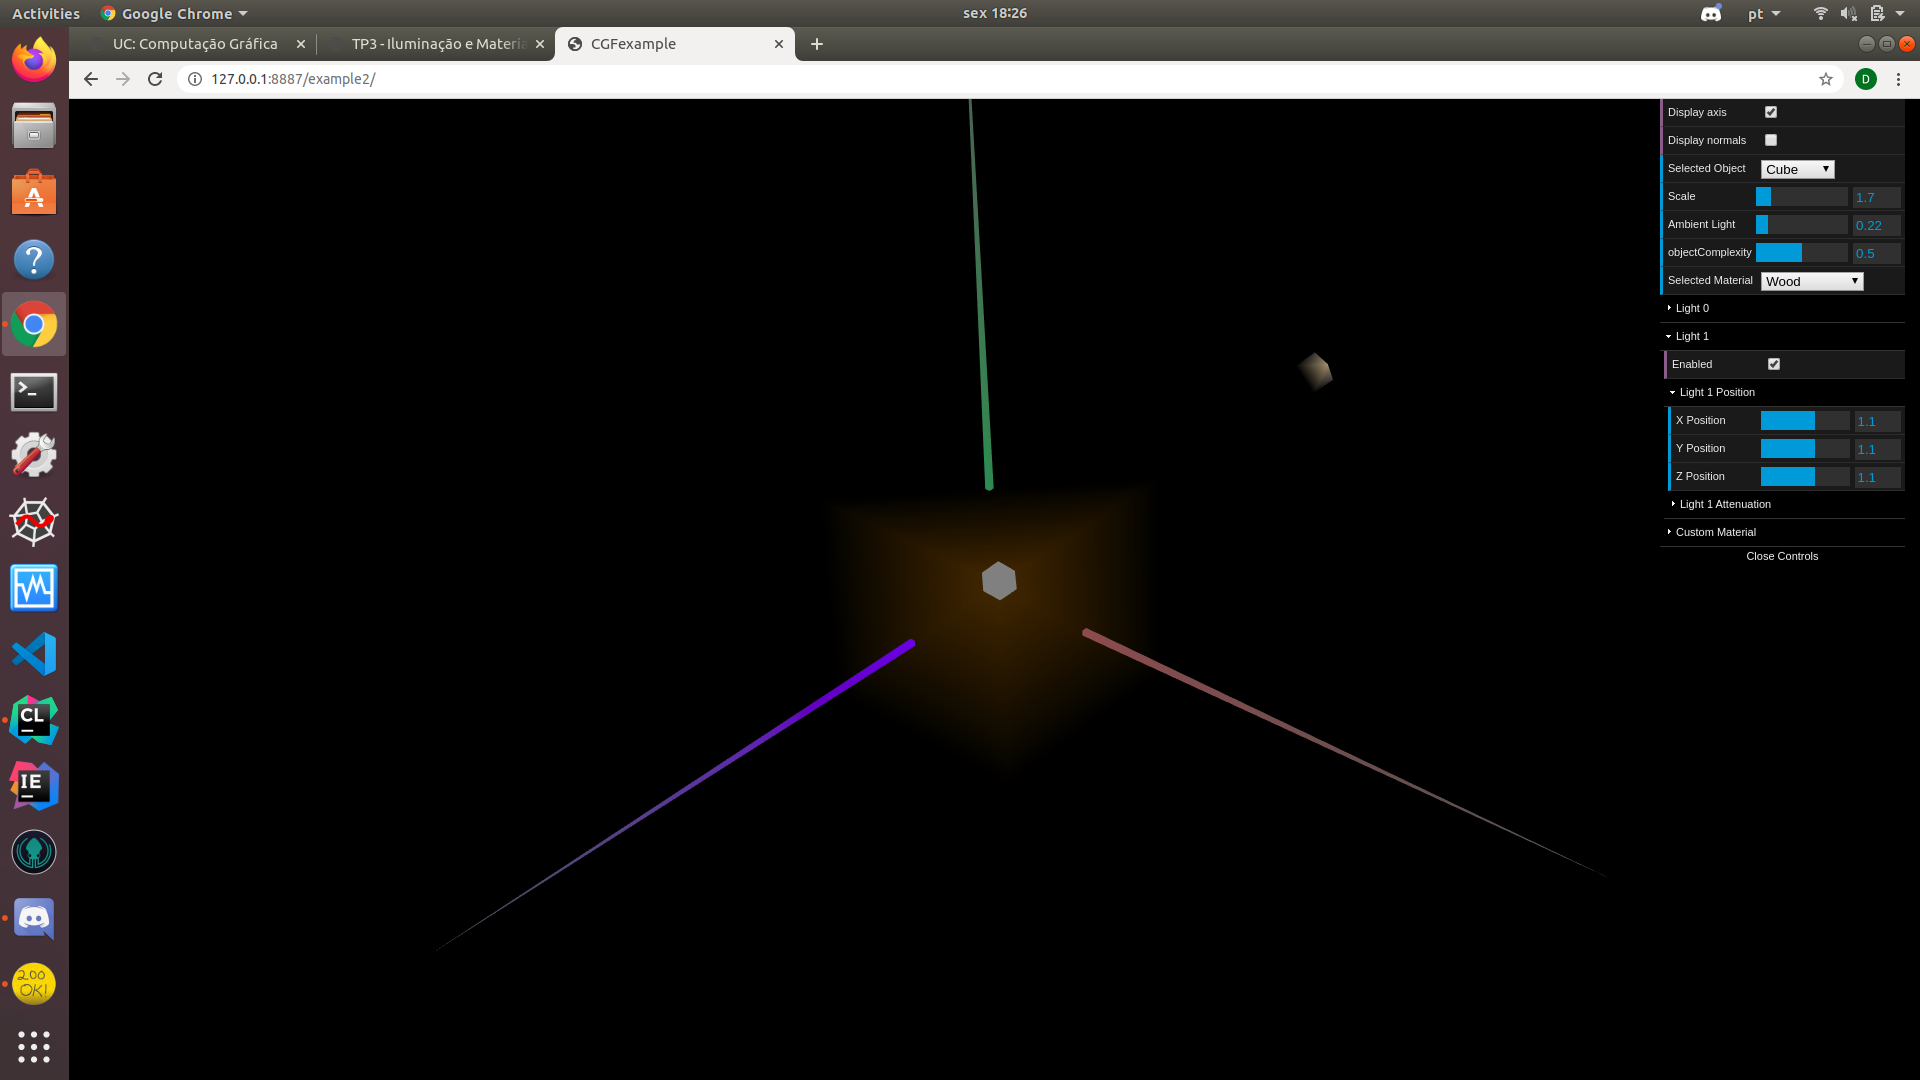
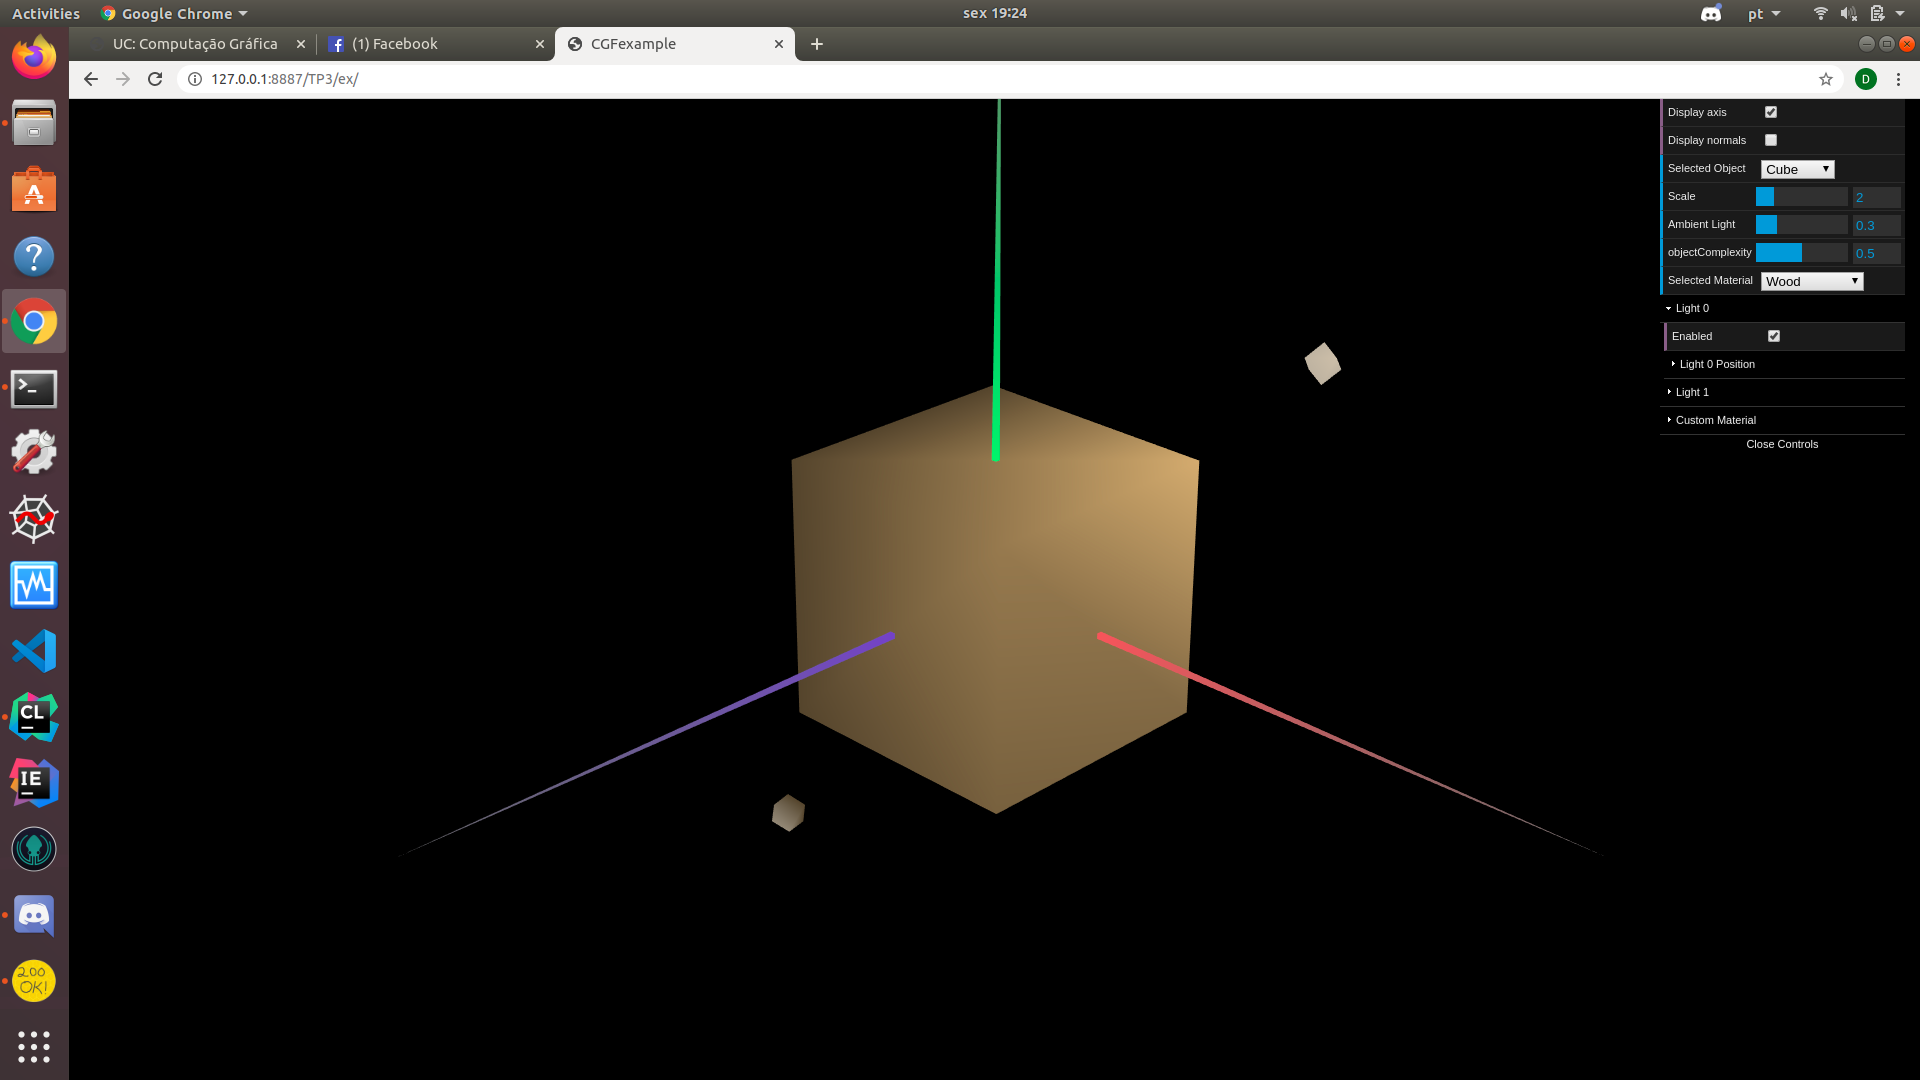
Small changes

diff --git a/TP3/MyScene.js b/TP3/MyScene.js
@@ -124,9 +124,9 @@ class MyScene extends CGFscene {
         this.material3.setShininess(10.0);
 
         this.material4 = new CGFappearance(this);
-        this.material4.setAmbient(0.25,0.15,0.15,1.0);
-        this.material4.setDiffuse(0.25,0.15,0.15,1.0);
-        this.material4.setSpecular(0.25,0.15,0.15,0.3);
+        this.material4.setAmbient(0.8,0.65,0.45,1.0);
+        this.material4.setDiffuse(0.8,0.65,0.45,1.0);
+        this.material4.setSpecular(0.8,0.65,0.45,0.3);
         this.material4.setShininess(10.0);
 
         // Custom material (can be changed in the interface)
